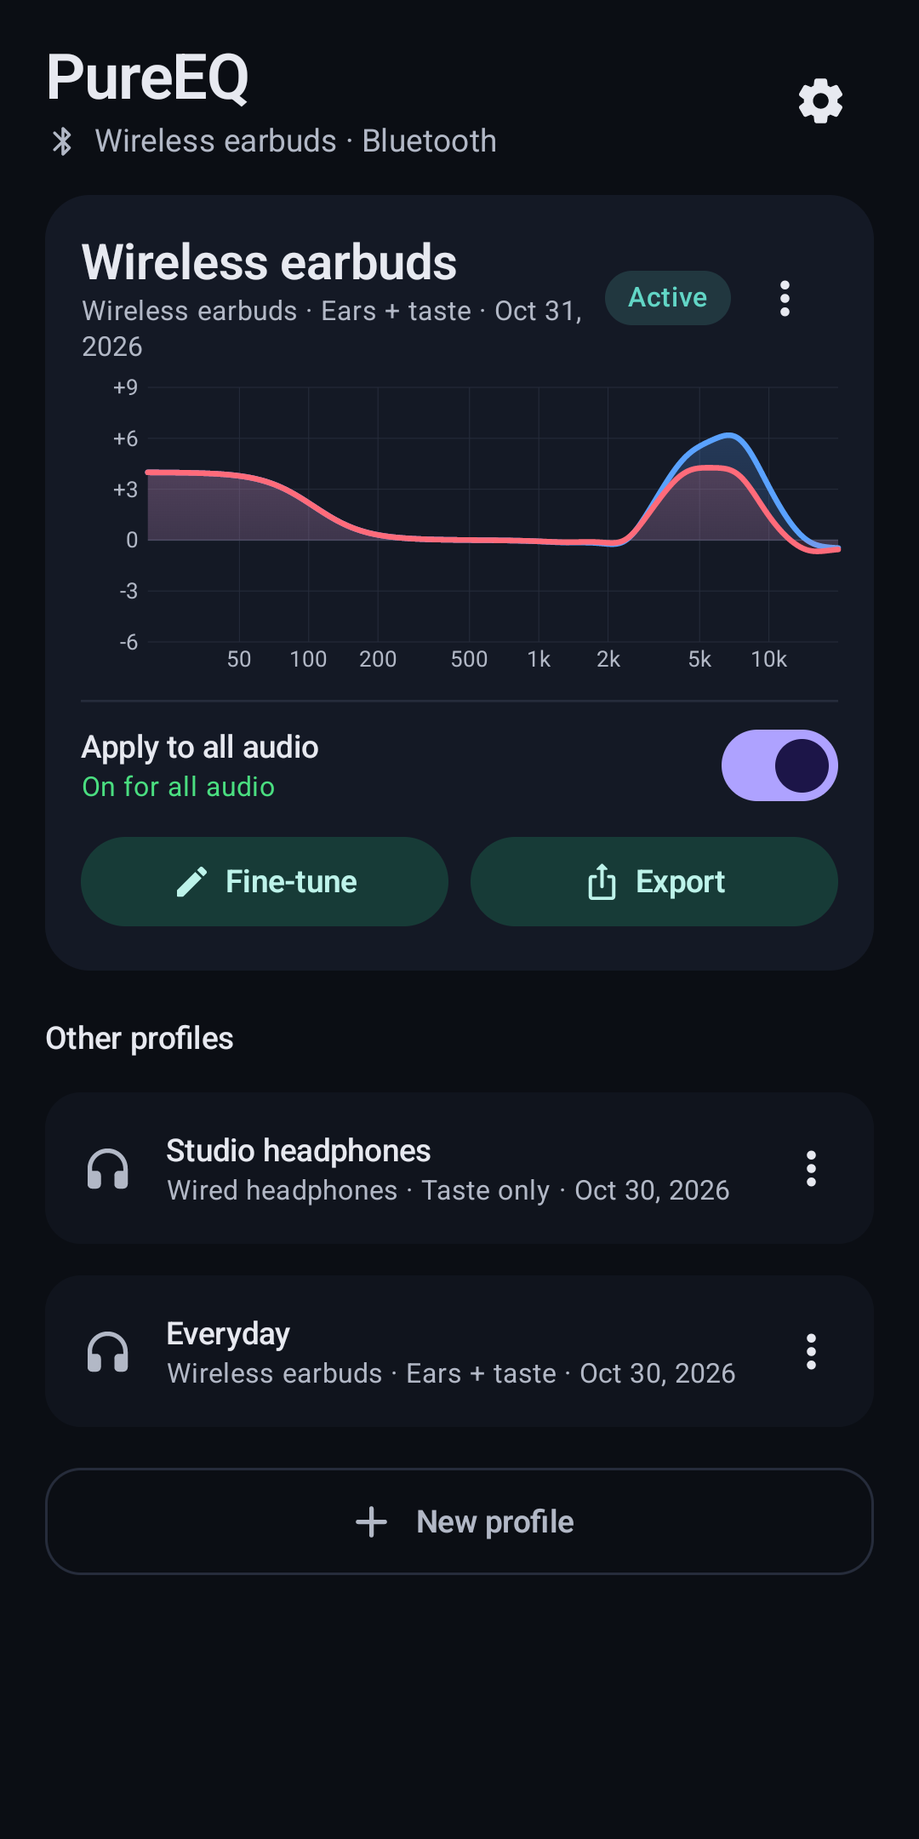
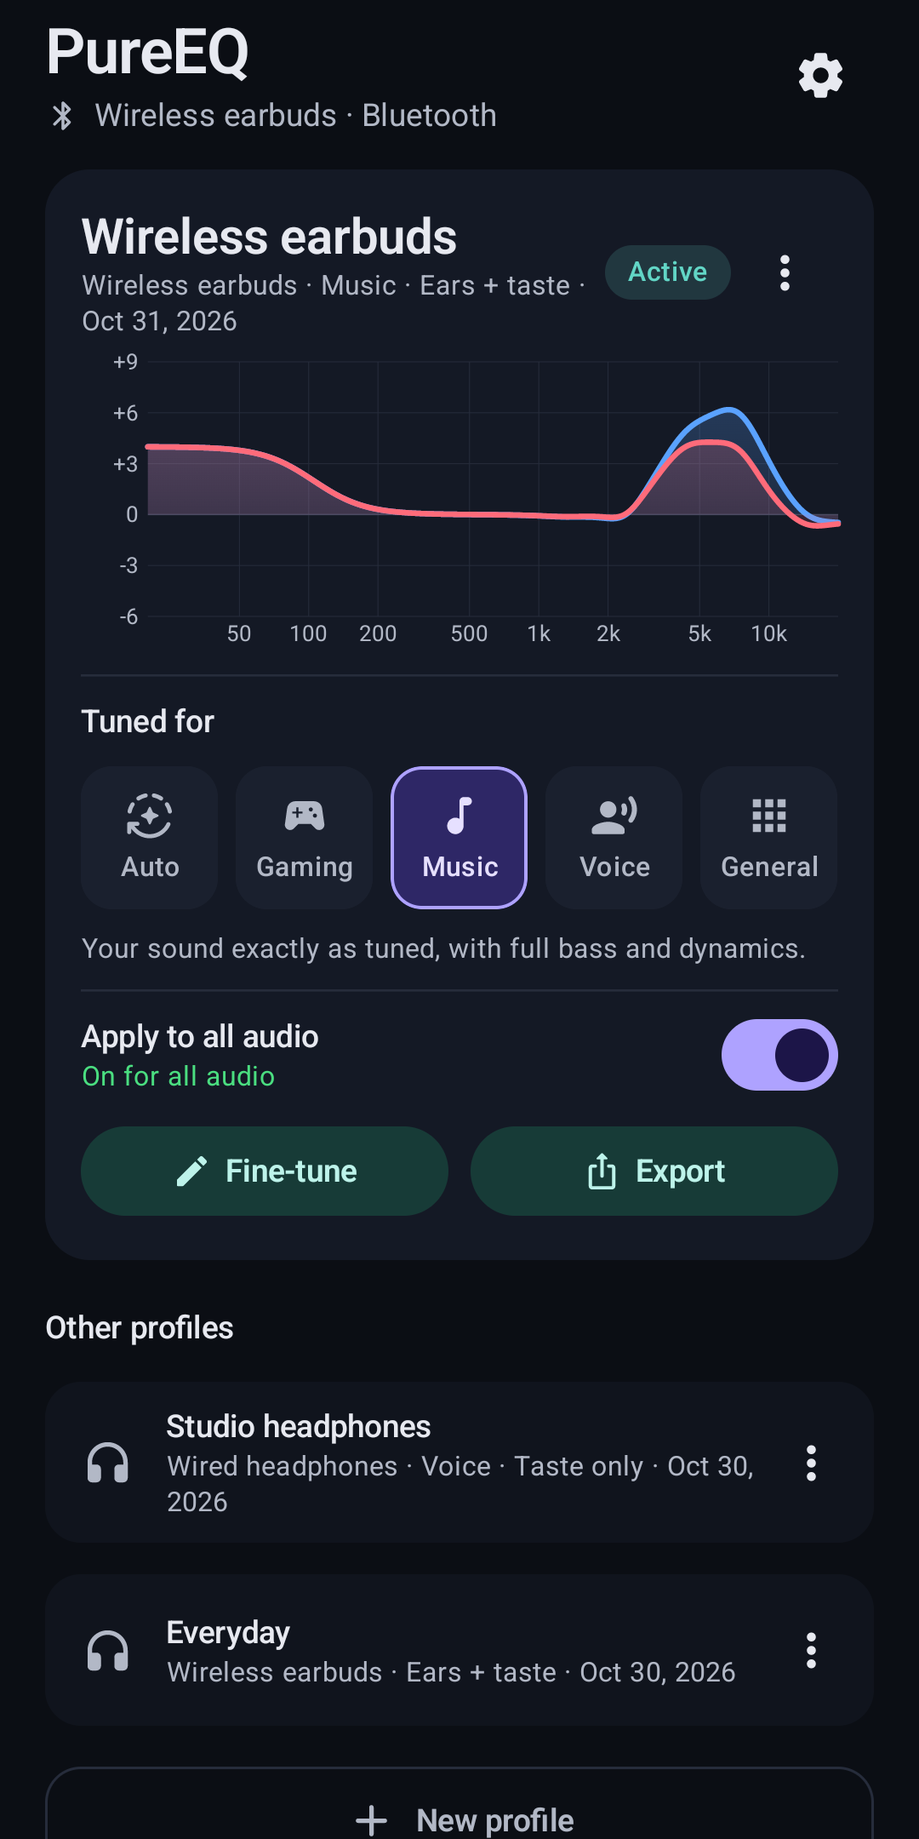
Play launch prep for 1.7.3: new screenshots, modes in the listings, checklist for a new account
- Eight phone screenshots retaken from the 1.7.3 Play build: home with
  the five modes, the mode question, the listening check and profile,
  the taste test, your EQ, Fine-tune and Where it's on.
- A line on the modes in the English and five translated descriptions.
- Privacy policy: what Auto reads about the audio playing.
- Background-service and Data safety text cover Auto.
- docs/play-store.md: a new personal account (closed test with 12
  testers for 14 days), dates from 11 November, account and identity
  verification, closed-test steps; Play build checked for 1.7.3.

diff --git a/docs/play-store.md b/docs/play-store.md
@@ -2,31 +2,29 @@
 
 PureEQ goes to Play as the `play` flavour: the same app and package (`app.pureeq`) as the GitHub build, minus the self-updater. Positioning: a personal-sound app that tunes your headphones to your ears and taste, not a medical device. Nothing has been submitted yet.
 
-## Decisions (owner, 2026-10-31)
+## Decisions
 
-- **Account:** an older personal developer account (created before 13 November 2023), so no 14-day closed test: internal testing, then production.
-- **Signing:** B below. Google generates and keeps the app signing key; uploads are signed with an upload key you create (Google can reset a lost upload key). Moving a phone between the GitHub and Play builds means exporting profiles, reinstalling and importing.
-- **Launch build:** 1.6.0 with per-output switching (1.5.3), volume-linked bass, an accessibility pass, translations (Spanish, German, French, Portuguese, Hindi) and the screenshots and graphics in [store/](store/).
+- **Account (owner, 2026-11-11):** a new personal developer account, not created yet. (On 2026-10-31 the plan assumed an older account; there is none.) A personal account created after 13 November 2023 must run a closed test with at least 12 testers opted in for 14 days in a row before it can apply for production.
+- **Signing (2026-10-31):** B below. Google generates and keeps the app signing key; uploads are signed with an upload key you create (Google can reset a lost upload key). Moving a phone between the GitHub and Play builds means exporting profiles, reinstalling and importing.
+- **Launch build:** 1.7.3 (versionCode 16): everything up to 1.6.0, listening modes with Auto (1.7.0, 1.7.2), shorter text (1.7.1) and the sound fixes (1.7.3), with the eight screenshots retaken for it on 2026-11-11 and the graphics in [store/](store/).
 
-## Timeline for a November 2026 launch
+## Timeline from 11 November 2026
 
-With the account above, the closed test below doesn't apply: internal testing for a few days, then a production release, which Google reviews (new apps can take several days). The rest of this section is for accounts that need it.
+Checked against Play Console Help on 2026-11-11 (answers 14151465, 13628312, 14316361): at least 12 testers opted in continuously for the 14 days right before applying (testers who leave early don't count, and a tester who rejoins starts a new 14 days); Google usually decides on the application within 7 days.
 
-A personal developer account created after 13 November 2023 gets production access only after a closed test with at least 12 opted-in testers for 14 days (Play Console Help, checked 2026-10-31), so the dates hang on when that test starts:
+1. **This week:** create the account (US$25, once), verify email and phone by code, verify your identity (government ID, plus proof of address in some countries) and an Android device through the Play Console app. Verification can take a few days; meanwhile make the upload key, publish the privacy policy, and line up at least 15 testers (a margin over 12, in case some drop out).
+2. **As soon as the account is verified (about 15-18 November):** create the app, fill in App content (3) and the store listing (4), upload the 1.7.3 bundle to a closed testing track and send testers the opt-in link. The 14 days start when the twelfth tester has opted in. Later builds can go to the same track during the 14 days; the clock doesn't restart.
+3. **About 2-4 December:** Dashboard › Apply for production; answer the three sections (closed test, app, readiness).
+4. **About 9-11 December:** once approved, release to production; Google reviews the app itself (new apps can take several days), so expect PureEQ on Play in mid-December.
 
-1. **First week of November:** the Play Console account and its identity verification, the signing decision (0) and the upload key, the privacy policy at a public URL, the listing and App content (3, 4) filled in, the first bundle on internal testing.
-2. **By about 7 November:** the closed test is live with at least 12 testers opted in. Later builds go to the same track during the 14 days; the clock doesn't restart.
-3. **About 21 November:** apply for production access, then wait for Google's review of the application.
-4. **Late November:** the production release, after Google's review of the app itself (new apps can take several days).
-
-Organization accounts, and personal accounts created before 13 November 2023, skip the closed test: internal test, then production, so November is easy.
+Organization accounts, and personal accounts created before 13 November 2023, skip the closed test: internal test, then production.
 
 ## 0. Decide first: one signing key for both builds?
 
 Android only lets one build replace the other when both are signed with the same key (or a lineage from it). Choose before the first upload; changing Play's app signing key later goes through Play's key upgrade.
 
 - [ ] **A. Shared key.** In Play Console's app signing setup, choose to use your own app signing key and upload the release key from [key-rotation.md](key-rotation.md) (Play Console walks you through its PEPK export tool). Play-installed and GitHub-installed copies then replace each other like any update, as long as the versionCode doesn't go down (a GitHub copy still on the debug key first needs one release-key GitHub update). Google recommends a separate upload key: create one with keytool and sign the bundle with it by setting the `PUREEQ_*` variables for that build (they take precedence over `keystore.properties`).
-- [ ] **B. Separate keys.** Let Google generate the app signing key (the default) and sign uploads with the release key. Simplest, but moving between the GitHub and Play builds then means uninstalling first (profiles come back only through Android's backup or a profile export).
+- [ ] **B. Separate keys.** Let Google generate the app signing key (the default) and sign uploads with an upload key you create (section 1). Simplest, but moving between the GitHub and Play builds then means uninstalling first (profiles come back only through Android's backup or a profile export).
 
 ## 1. Build the upload
 
@@ -57,13 +55,16 @@ Android only lets one build replace the other when both are signed with the same
 
   Upload `app/build/outputs/bundle/playRelease/app-play-release.aab`.
 - [ ] Check what the Play build contains (`./gradlew :app:assemblePlayRelease`, then `"$ANDROID_HOME/build-tools/36.0.0/aapt2" dump permissions app/build/outputs/apk/play/release/app-play-release.apk`): MODIFY_AUDIO_SETTINGS, RECORD_AUDIO, FOREGROUND_SERVICE, FOREGROUND_SERVICE_SPECIAL_USE, POST_NOTIFICATIONS, RECEIVE_BOOT_COMPLETED, INTERNET, plus AndroidX's own DYNAMIC_RECEIVER_NOT_EXPORTED_PERMISSION. No REQUEST_INSTALL_PACKAGES, UPDATE_PACKAGES_WITHOUT_USER_ACTION or ACCESS_NETWORK_STATE, no update receiver or job, no update checks, and Settings has no Updates section.
+- [x] Checked 2026-11-11 (1.7.3): the permissions are exactly the list above, no update code or debug output hook in the release dex, targetSdk 36, `libandroidx.graphics.path.so` 16 KB aligned on all four ABIs.
 - [x] Checked 2026-10-31 (1.5.3): `lintPlayRelease` passes; targetSdk 36 meets Play's level for new apps (from 31 August 2026); the only native code, AndroidX's `libandroidx.graphics.path.so`, is 16 KB aligned on all four ABIs (`llvm-readelf -lW`: LOAD align 0x4000), as Play requires for apps targeting Android 15+; the debug-only output hook isn't in the release dex.
 - [ ] Version: `versionCode` comes from `version.properties`, shared with the GitHub build. Upload each release to Play with the same versionCode as its GitHub twin, so phones can move between them without a downgrade.
 
 ## 2. Developer account and testing
 
-- [ ] Identity verification of the Play developer account. The same account registers the GitHub build for developer verification ([key-rotation.md](key-rotation.md#7-register-apppureeq-for-developer-verification)).
-- [ ] Personal developer accounts created after 13 November 2023 must run a closed test with at least 12 opted-in testers for 14 days before they can apply for production access.
+- [ ] Create the account at play.google.com/console as **Yourself** (personal), pay the US$25 fee, and verify the contact email and phone by code. The developer name can differ from your legal name and can change later; Google Play shows your legal name, country and developer email publicly (your full address only if you sell something).
+- [ ] Identity verification (government photo ID, and proof of address in some countries) and **Verify that you have access to an Android mobile device** (a Home task: install the Play Console app from its QR code on any physical, unrooted phone with Android 10 or later). The same account registers the GitHub build for developer verification ([key-rotation.md](key-rotation.md#7-register-apppureeq-for-developer-verification)).
+- [ ] Closed test: Testing › Closed testing › create a track, add testers by email list (or a Google Group), upload the bundle, roll it out, and send testers the opt-in link from the track's Testers tab. Each tester needs a Google account on an Android phone, opens the link, taps **Become a tester**, then installs PureEQ from Play. Ask them to stay opted in for the full 14 days and to actually use it: the production application asks what testers did and what you changed.
+- [ ] Apply for production from the Dashboard once at least 12 testers have been opted in for 14 days in a row.
 - [x] The in-app wording matches the positioning, since reviewers see the app and its screenshots: since 1.5.0 the screens say "listening check" and "Ear tuning", hearing terms appear only in the disclaimers ("not a hearing test or an audiogram", "Not a medical device"), and the Play build's Privacy text leaves out the update checks (`BuildConfig.SELF_UPDATER`). Checked again for 1.5.3. Other brands appear only as compatibility notes (turn off Samsung's or Dolby's EQ, the Samsung 9-band export, Samsung Music in "Music apps").
 
 ## 3. App content declarations
@@ -72,7 +73,7 @@ Android only lets one build replace the other when both are signed with the same
 
 - [ ] Declare `FOREGROUND_SERVICE_SPECIAL_USE` for `EqService` (the manifest subtype says "Keeps the user's personal equalizer applied to system audio output"). Description:
 
-  > PureEQ applies the user's personal sound profile, an equalizer, to all audio the phone plays. When the user turns on "Apply to all audio" in the app or with PureEQ's Quick Settings tile, a foreground service attaches Android's DynamicsProcessing audio effect to the output mix (or, in "Music apps" mode, to the audio sessions music players open) and keeps it applied while the user listens in other apps. The user chooses on or off for each audio output (profiles are tuned for headphones, so the phone speaker starts off): when media moves to an output the user has it off for, the service releases the effect and waits, and when headphones it is on for come back it applies the effect again. The effect is released as soon as the service stops. A persistent notification shows the active profile or which outputs it is waiting for, with a Turn off button; the user can also turn it off in the app or from the tile. None of the predefined types fits: the service doesn't play, record or cast media, sync data or track location. It only keeps the system-wide effect alive and follows the audio output.
+  > PureEQ applies the user's personal sound profile, an equalizer, to all audio the phone plays. When the user turns on "Apply to all audio" in the app or with PureEQ's Quick Settings tile, a foreground service attaches Android's DynamicsProcessing audio effect to the output mix (or, in "Music apps" mode, to the audio sessions music players open) and keeps it applied while the user listens in other apps. The user chooses on or off for each audio output (profiles are tuned for headphones, so the phone speaker starts off): when media moves to an output the user has it off for, the service releases the effect and waits, and when headphones it is on for come back it applies the effect again. The effect is released as soon as the service stops. A persistent notification shows the active profile or which outputs it is waiting for, with a Turn off button; the user can also turn it off in the app or from the tile. None of the predefined types fits: the service doesn't play, record or cast media, sync data or track location. It only keeps the system-wide effect alive and follows the audio output, and in Auto mode reads which kind of audio is playing (music, speech, a film or a game, as Android reports it) to pick the profile's listening mode.
 
   Impact if the system stopped or deferred it:
 
@@ -93,6 +94,7 @@ Android only lets one build replace the other when both are signed with the same
   - Profiles, listening-check and taste-test answers, headphone choices and settings are stored only on the phone; a song picked for the taste test is read on the phone.
   - Microphone (RECORD_AUDIO): only the optional room check, 3 seconds of measuring background noise, processed on the phone; nothing is recorded, stored or sent. Data handled only on the device doesn't count as collected.
   - Network, Play build: only downloads of AutoEq's public headphone index and one model's measurement files (cdn.jsdelivr.net, falling back to raw.githubusercontent.com) when the user looks up a model. No user data is sent; the servers see what any web request carries (IP address, a user agent naming the app and Android versions), and nothing reaches the developer.
+  - Auto mode reads the type of audio playing (Android's usage and content type for each player, without the app's name), on the phone only.
   - Android Auto Backup copies the app's data into the user's own Google account; the developer can't read it. Check Play's current Data safety help that it needs no disclosure.
 - [ ] Security: all traffic is HTTPS (cleartext is disabled), no account exists, and uninstalling deletes everything; profiles can also be deleted in the app.
 
@@ -132,6 +134,7 @@ Category: Music & Audio. Contact email: the same address as the privacy policy.
 > • Taste test: blind A/B comparisons, matched in loudness, find the bass and treble you prefer, on the built-in track or a song of your own.
 > • Your sound: both become one smooth EQ curve per ear. Fine-tune bass, warmth, vocals, treble and balance, and compare EQ on and off at the same loudness.
 > • Bass that follows the volume: turn down from the volume you tuned at and PureEQ adds back the bass your ears lose at lower levels.
+> • Modes for what you listen to: Music plays your sound exactly as tuned, Voice clears up podcasts and audiobooks, Gaming brings footsteps forward with less delay, General suits a bit of everything, and Auto switches by itself to suit what's playing.
 >
 > Optionally pick your headphone model from the open-source AutoEq database of over 6,000 measured headphones, and PureEQ corrects that model's measured response as well.
 >
@@ -151,12 +154,12 @@ Category: Music & Audio. Contact email: the same address as the privacy policy.
 
 **Never in the listing, screenshots or release notes:** "hearing test", "hearing loss", "hearing aid", "audiogram", "dB HL", "screening", "clinically validated", and Apple or Samsung product names. Use "personal sound profile", "listening check" and "tunes your headphones to your ears and taste".
 
-**Graphics:** in [store/](store/): `icon-512.png` (512 × 512) and `feature-graphic-1024x500.png`, drawn by `store/art.py` from the launcher icon, and seven phone screenshots in `store/screenshots/` (1080 × 2160, or 1080 × 1500 for the listening profile, which is cropped above its reliability card; upload them in their numbered order). Taken on the emulator with neutral headphone names and checked against the list above. They show the English app; the translated listings can use them too.
+**Graphics:** in [store/](store/): `icon-512.png` (512 × 512) and `feature-graphic-1024x500.png`, drawn by `store/art.py` from the launcher icon, and eight phone screenshots in `store/screenshots/` (1080 × 2160; the listening profile 1080 × 1580, cropped below its reliability card so the not-a-hearing-test line stays out; Settings 1080 × 1750, framed below the line that names other EQs). Upload them in their numbered order: home with the modes, the mode question, the listening check, the listening profile, the taste test, your EQ, Fine-tune, Where it's on. Retaken 2026-11-11 on the emulator from the 1.7.3 Play debug build, with neutral headphone names, a simulated listener and a demo-mode status bar cropped off, and checked against the list above. They show the English app; the translated listings can use them too.
 
 **Translated listings:** `store/listing-<language>.md` has the app name, short description and full description in Spanish, German, French, Portuguese (Brazil) and Hindi; add each as a translation in Play Console › Store presence › Main store listing.
 
 ## 5. Release
 
-- [ ] Internal testing track first; read the pre-launch report.
-- [ ] Closed test (see 2), then apply for production.
+- [ ] Closed testing track with the 1.7.3 bundle; read the pre-launch report (Release › Testing › Pre-launch report) and fix anything it flags before testers' 14 days run out.
+- [ ] Apply for production (see 2), then create the production release from the same bundle.
 - [ ] Each later release: publish the GitHub build (`python3 ota/publish.py`, which may raise the versionCode), then build the Play bundle (`./gradlew :app:bundlePlayRelease`) so it gets the same versionCode, and upload it.

diff --git a/docs/store/listing-fr.md b/docs/store/listing-fr.md
@@ -23,6 +23,7 @@ Créez votre profil sonore personnel en cinq minutes environ :
 • Test de préférences : des comparaisons A/B à l’aveugle, au même volume perçu, trouvent les basses et les aigus que vous préférez, sur le morceau intégré ou sur l’un de vos morceaux.
 • Votre son : les deux forment une courbe d’EQ lissée pour chaque oreille. Dans Réglage fin, ajustez basses, chaleur, voix, aigus et balance, et comparez EQ activé et désactivé au même volume perçu.
 • Des basses qui suivent le volume : baissez le son sous le volume de réglage, et PureEQ rajoute les basses que vos oreilles perdent à bas niveau.
+• Des modes selon ce que vous écoutez : Musique joue votre son exactement tel que réglé, Voix rend podcasts et livres audio plus clairs, Jeux met les bruits de pas en avant avec moins de délai, Général convient à un peu de tout, et Auto change tout seul selon ce qui joue.
 
 Si vous le souhaitez, choisissez votre modèle d’écouteurs dans la base de données open source d’AutoEq, qui compte plus de 6 000 écouteurs mesurés : PureEQ corrige alors aussi la réponse mesurée de ce modèle.
 

diff --git a/docs/store/listing-de.md b/docs/store/listing-de.md
@@ -23,6 +23,7 @@ Erstelle dein persönliches Klangprofil in etwa fünf Minuten:
 • Geschmackstest: Blinde A/B-Vergleiche, auf gleiche Lautheit abgeglichen, finden den Bass und die Höhen, die du bevorzugst, mit dem integrierten Track oder einem eigenen Song.
 • Dein Klang: Aus beidem wird eine glatte EQ-Kurve pro Ohr. Passe in der Feinabstimmung Bass, Wärme, Stimmen, Höhen und Balance an und vergleiche EQ an und aus bei gleicher Lautheit.
 • Bass folgt der Lautstärke: Hörst du leiser als bei der Abstimmung, fügt PureEQ den Bass wieder hinzu, den deine Ohren bei leiserem Pegel verlieren.
+• Modi für das, was du hörst: Musik klingt genau wie abgestimmt, Stimme macht Podcasts und Hörbücher klarer, Gaming holt Schritte nach vorn und verzögert weniger, Allgemein passt für ein bisschen von allem, und Auto wechselt von selbst passend zu dem, was gerade läuft.
 
 Wähle optional dein Kopfhörermodell aus der Open-Source-Datenbank von AutoEq mit über 6.000 gemessenen Kopfhörern, dann korrigiert PureEQ auch den gemessenen Frequenzgang dieses Modells.
 

diff --git a/docs/store/listing-pt-BR.md b/docs/store/listing-pt-BR.md
@@ -23,6 +23,7 @@ Crie seu perfil de som pessoal em cerca de cinco minutos:
 • Teste de preferência: comparações A/B às cegas, com o mesmo volume percebido, encontram os graves e agudos que você prefere, com a faixa integrada ou com uma música sua.
 • Seu som: as duas coisas viram uma curva de EQ suave para cada ouvido. Faça o ajuste fino de graves, calor, vocais, agudos e balanço e compare com EQ e sem EQ no mesmo volume percebido.
 • Graves que seguem o volume: abaixo do volume em que você ajustou, o PureEQ devolve os graves que seus ouvidos perdem em níveis mais baixos.
+• Modos para o que você ouve: Música toca seu som exatamente como ajustado, Voz deixa podcasts e audiolivros mais claros, Jogos traz os passos para a frente com menos atraso, Geral serve para um pouco de tudo e Auto muda sozinho conforme o que está tocando.
 
 Se quiser, escolha o modelo dos seus fones no banco de dados de código aberto do AutoEq, com mais de 6.000 fones medidos, e o PureEQ também corrige a resposta medida desse modelo.
 

diff --git a/docs/store/listing-es.md b/docs/store/listing-es.md
@@ -23,6 +23,7 @@ Crea tu perfil de sonido personal en unos cinco minutos:
 • Prueba de gustos: comparaciones A/B a ciegas, igualadas en sonoridad, encuentran los graves y los agudos que prefieres, con la pista integrada o con una canción tuya.
 • Tu sonido: ambas cosas se combinan en una curva de EQ suave para cada oído. Haz un ajuste fino de graves, calidez, voces, agudos y balance, y compara con EQ y sin EQ a la misma sonoridad.
 • Graves según el volumen: por debajo del volumen en que afinaste, PureEQ repone los graves que tus oídos pierden a niveles más bajos.
+• Modos para lo que escuchas: Música suena exactamente como lo ajustaste, Voz aclara pódcasts y audiolibros, Juegos adelanta los pasos con menos retardo, General sirve para un poco de todo y Auto cambia por sí solo según lo que suena.
 
 Si quieres, elige tu modelo de auriculares en la base de datos de código abierto de AutoEq, con más de 6000 auriculares medidos, y PureEQ corregirá también la respuesta medida de ese modelo.
 

diff --git a/docs/privacy-policy.md b/docs/privacy-policy.md
@@ -16,6 +16,10 @@ This policy covers PureEQ for Android (package `app.pureeq`), both the version f
 
 Before the listening check, PureEQ can measure the background noise in the room. If you allow the microphone, it listens for 3 seconds and works out the noise level on the phone. Nothing is recorded, stored or sent. Without the permission, PureEQ works the same and skips this check.
 
+## What's playing
+
+In Auto mode, PureEQ asks Android what kind of audio is playing (music, speech, a film or a game), as the playing app labels it, to pick a mode. Android doesn't say which app it is or what is playing, and PureEQ keeps nothing of it.
+
 ## What goes online
 
 PureEQ connects to the internet only for these downloads, always over encrypted connections (HTTPS):
